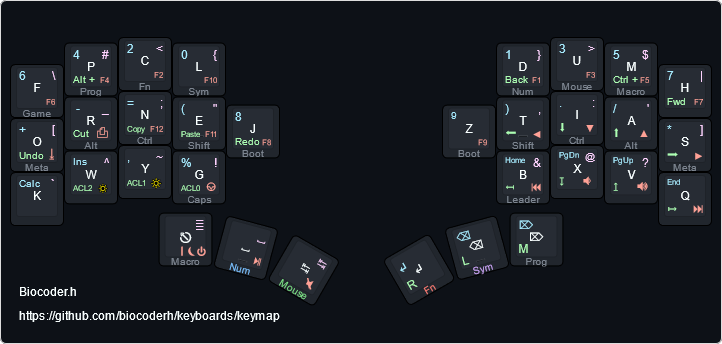
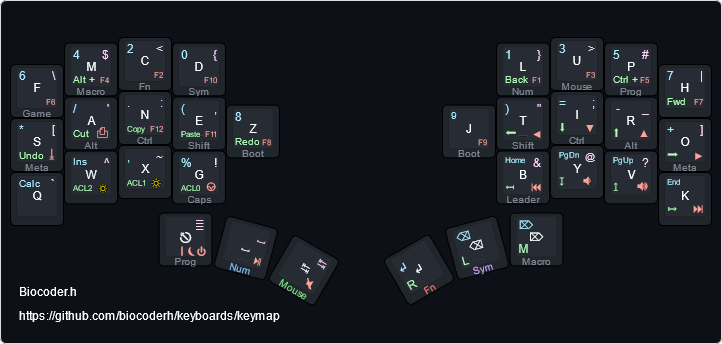
some swaps

diff --git a/keymap/biocoderh.h b/keymap/biocoderh.h
@@ -41,22 +41,22 @@ enum layers {
 
 const uint16_t PROGMEM keymaps[][MATRIX_ROWS][MATRIX_COLS] = {
     [L_BASE] = LAYOUT_biocoderh(
-        KC_F,               KC_P,               KC_C,               KC_L,                                                       KC_D,               KC_U,               KC_M,               KC_H,
-        LGUI_T(KC_O),       LALT_T(KC_R),       LCTL_T(KC_N),       LSFT_T(KC_E),       KC_J,               KC_Z,               RSFT_T(KC_T),       RCTL_T(KC_I),       RALT_T(KC_A),       RGUI_T(KC_S),
-        KC_K,               KC_W,               KC_Y,               KC_G,                                                       KC_B,               KC_X,               KC_V,               KC_Q,
+        KC_F,               KC_M,               KC_C,               KC_D,                                                       KC_L,               KC_U,               KC_P,               KC_H,
+        LGUI_T(KC_S),       LALT_T(KC_A),       LCTL_T(KC_N),       LSFT_T(KC_E),       KC_Z,               KC_J,               RSFT_T(KC_T),       RCTL_T(KC_I),       RALT_T(KC_R),       RGUI_T(KC_O),
+        KC_Q,               KC_W,               KC_X,               KC_G,                                                       KC_B,               KC_Y,               KC_V,               KC_K,
 
                                                 LT_MACRO(KC_ESC),   LT_NUM(KC_SPC),     LT_MOUSE(KC_TAB),   LT_FN(KC_ENT),      LT_SYM(KC_BSPC),    LT_PROG(KC_DEL)
     ),
     [L_NUM] = LAYOUT_biocoderh(
         KC_6,               KC_4,               KC_2,               KC_0,                                                       KC_1,               KC_3,               KC_5,               KC_7,
-        LGUI_T(KC_PPLS),    LALT_T(KC_PMNS),    LCTL_T(KC_EQL),     LSFT_T(KC_LPRN),    KC_8,               KC_9,               RSFT_T(KC_RPRN),    RCTL_T(KC_DOT),     RALT_T(KC_PSLS),    RGUI_T(KC_PAST),
+        LGUI_T(KC_PAST),    LALT_T(KC_PSLS),    LCTL_T(KC_DOT),     LSFT_T(KC_LPRN),    KC_8,               KC_9,               RSFT_T(KC_RPRN),    RCTL_T(KC_EQL),     RALT_T(KC_PMNS),    RGUI_T(KC_PPLS),
         KC_CALC,            KC_INS,             KC_COMM,            KC_PERC,                                                    KC_HOME,            KC_PGDN,            KC_PGUP,            KC_END,
 
                                                 KC_APP,             KC_SPC,             KC_TAB,             KC_ENT,             KC_BSPC,            KC_DEL
     ),
     [L_SYM] = LAYOUT_biocoderh(
-        KC_BSLS,            KC_HASH,            KC_LABK,            KC_LCBR,                                                    KC_RCBR,            KC_RABK,            KC_DLR,             KC_PIPE,
-        KC_LBRC,            KC_UNDS,            KC_SCLN,            KC_DQUO,            KC_EXLM,            KC_RPRN,            KC_COMM,            KC_COLN,            KC_QUOT,            KC_RBRC,
+        KC_BSLS,            KC_DLR,             KC_LABK,            KC_LCBR,                                                    KC_RCBR,            KC_RABK,            KC_HASH,            KC_PIPE,
+        KC_LBRC,            KC_QUOT,            KC_COLN,            KC_COMM,            KC_EXLM,            KC_RPRN,            KC_DQUO,            KC_SCLN,            KC_UNDS,            KC_RBRC,
         KC_GRV,             KC_CIRC,            KC_TILD,            KC_EXLM,                                                    KC_AMPR,            KC_AT,              KC_QUES,            KC_BSLS,
 
                                                 KC_APP,             KC_SPC,             KC_TAB,             KC_ENT,             KC_BSPC,            KC_DEL
